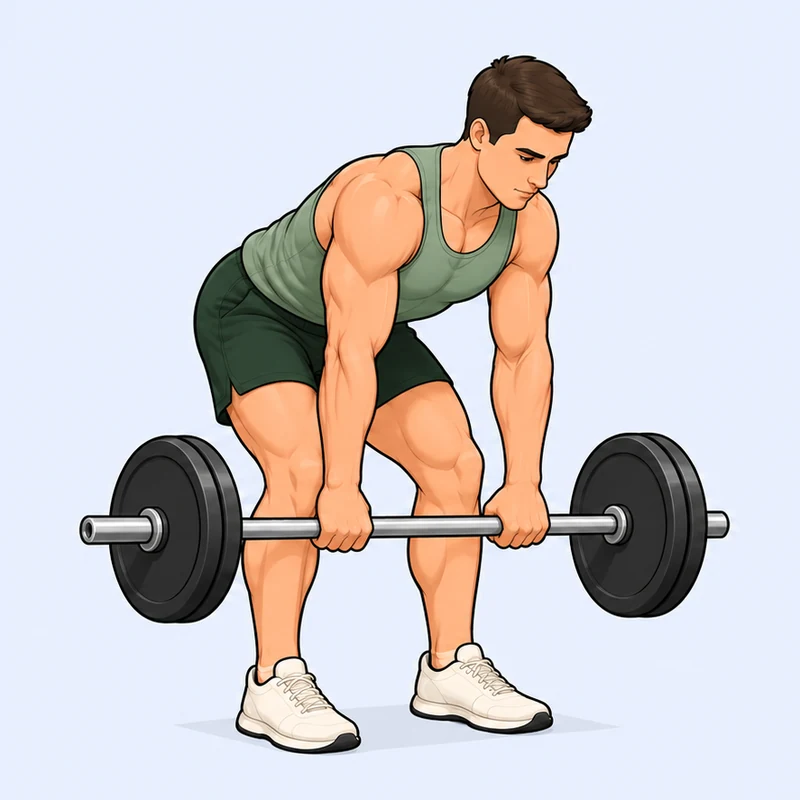
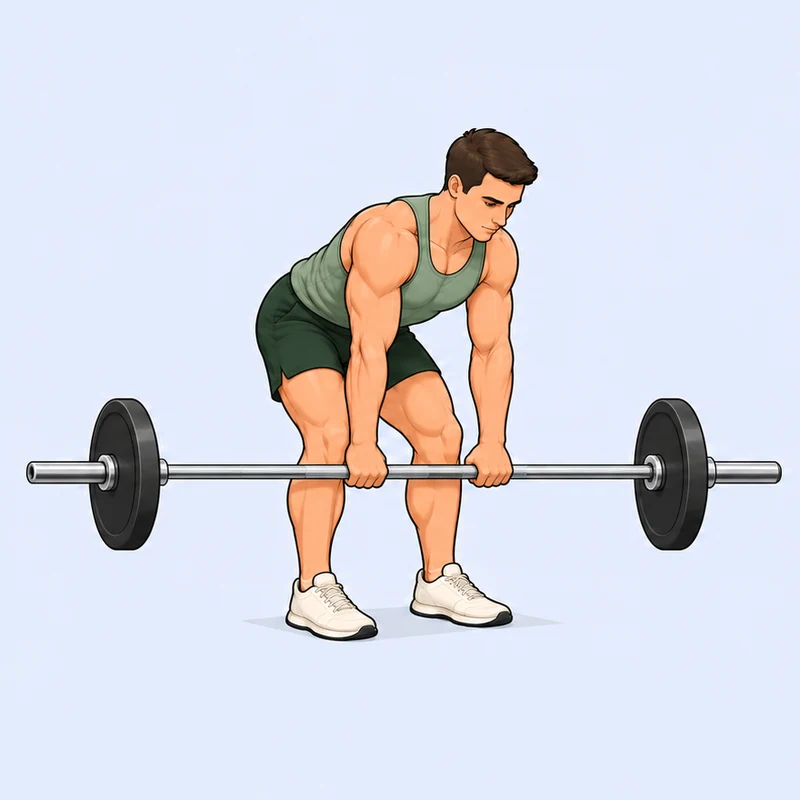
Depict Nick bent-over row with full-length Olympic barbell

Changed region(s): [[0.0312, 0.0625, 1.0, 0.9688]]

diff --git a/scripts/export-catalog-batch3.py b/scripts/export-catalog-batch3.py
@@ -5,7 +5,8 @@ from PIL import Image
 ROOT = Path(__file__).resolve().parent.parent
 NAMES = ('bent-over-row', 'linear-hack-squat', 'walking-lunge')
 for name in NAMES:
-    sheet = Image.open(ROOT / 'assets/catalog-motion-batch3' / f'{name}.png').convert('RGB')
+    source = 'bent-over-row-olympic-v2.png' if name == 'bent-over-row' else f'{name}.png'
+    sheet = Image.open(ROOT / 'assets/catalog-motion-batch3' / source).convert('RGB')
     half = sheet.width // 2
     assert sheet.width == sheet.height * 2
     for position in (1, 2):
